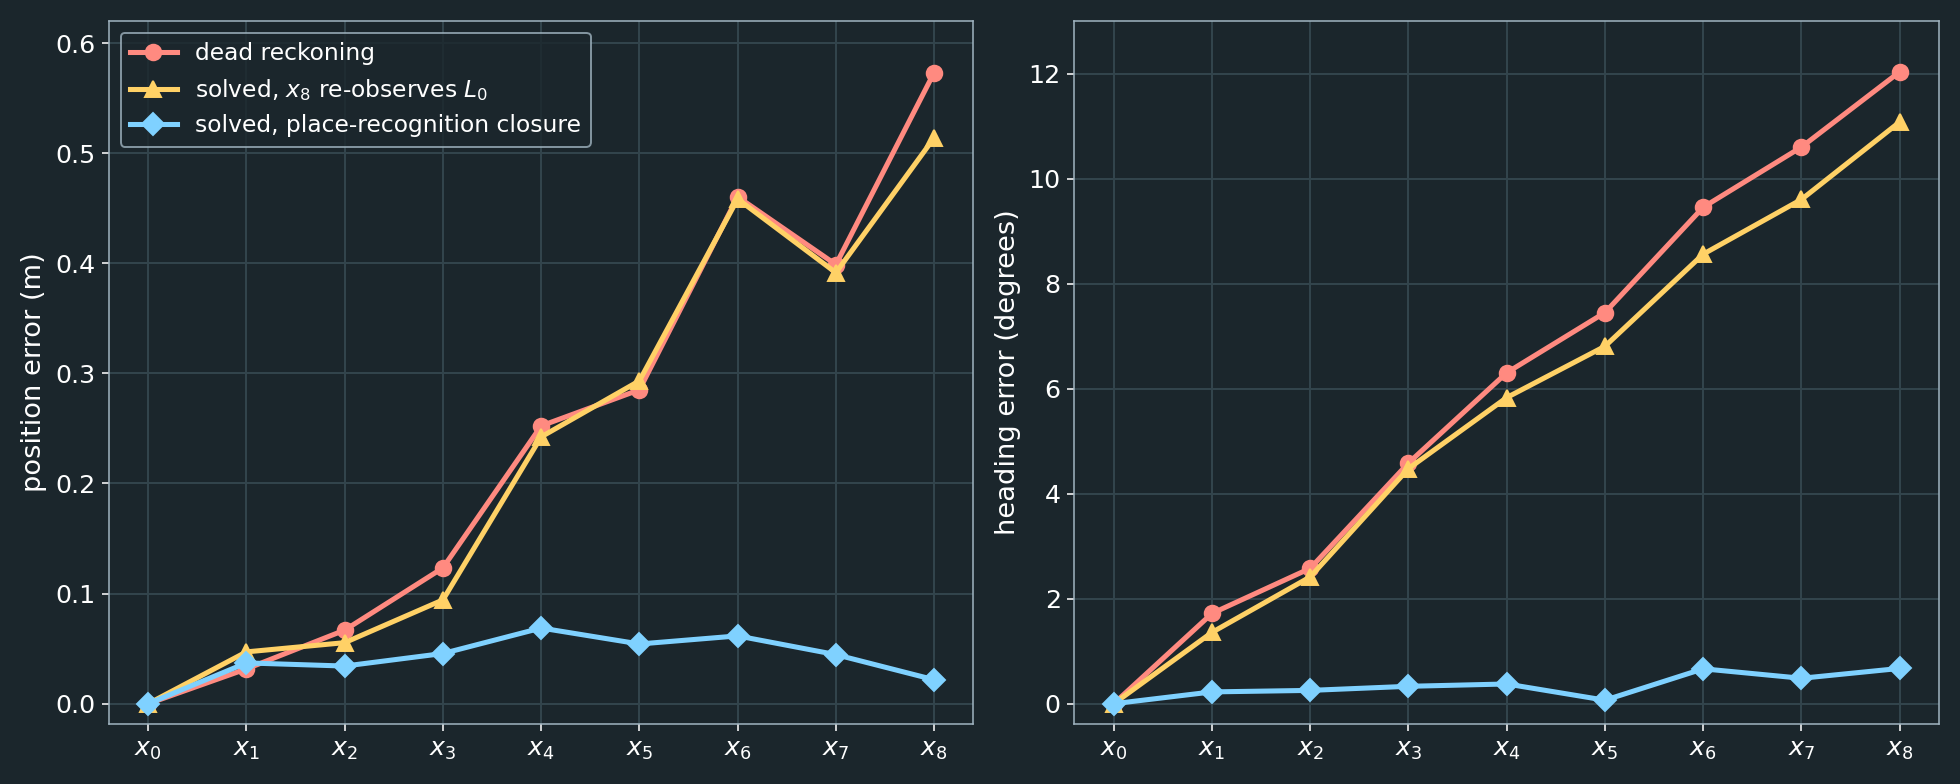
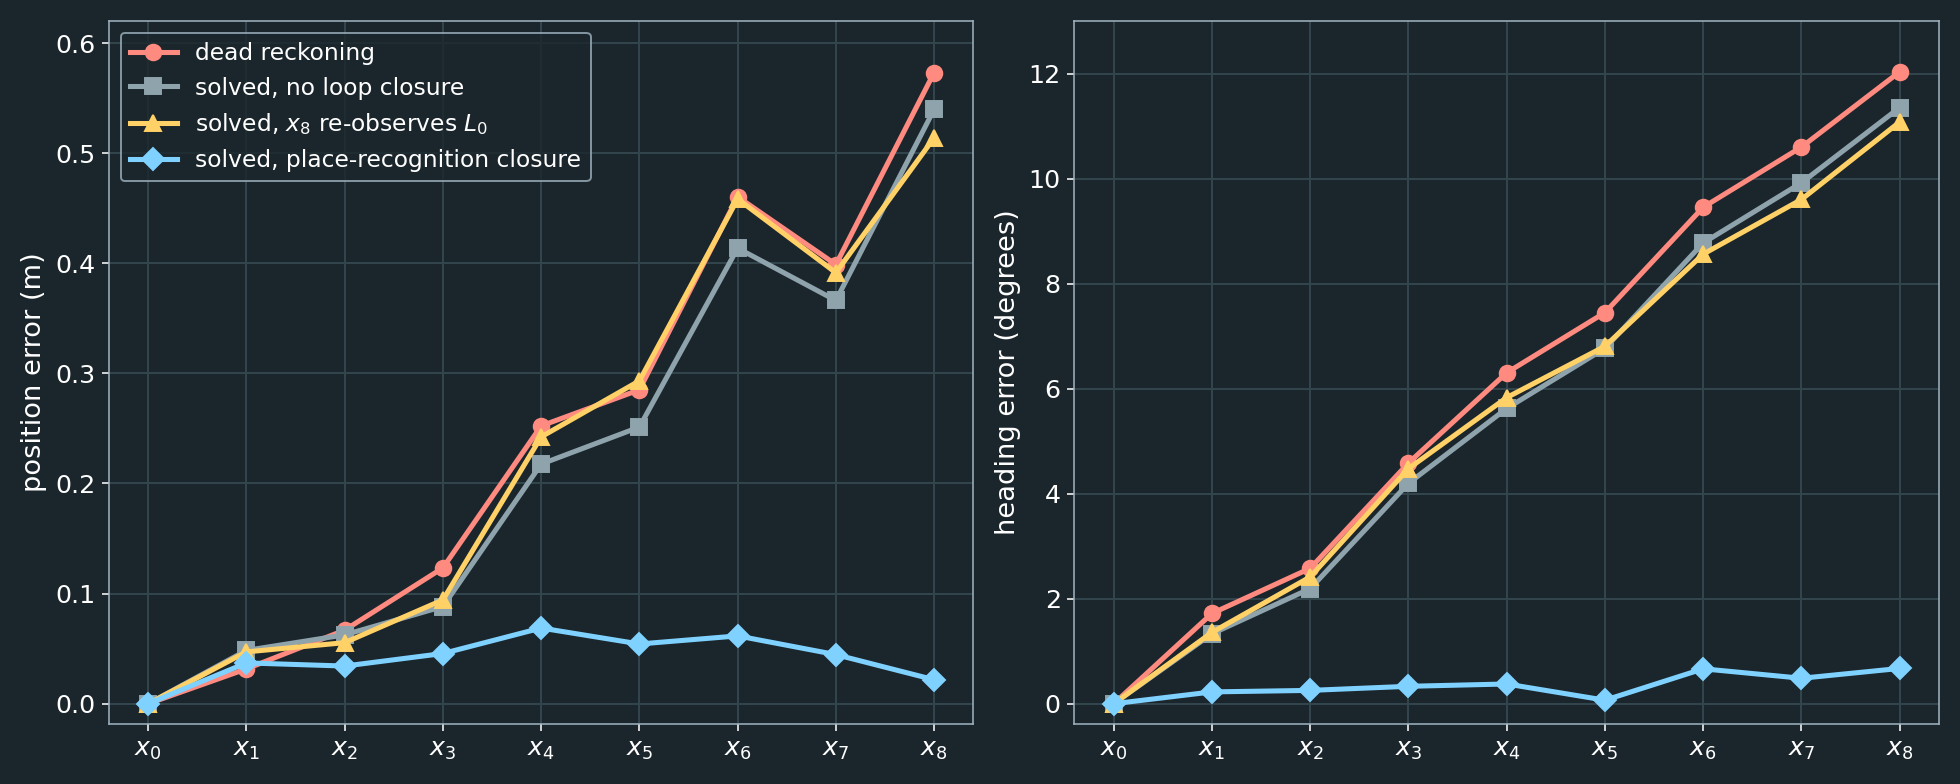
Update error charts in loop closure documentation for clarity and accuracy

diff --git a/Graph_SLAM/generate_loop_and_sparse_figures.py b/Graph_SLAM/generate_loop_and_sparse_figures.py
@@ -519,7 +519,7 @@ def main():
     solved_landmark = M.solve(mu0, M.WITH_LANDMARK_CLOSURE)[-1]
     make_error_chart([("dead reckoning", CONFLICT, mu0, "o"), ("solved, no loop closure", TRUTH, solved_local, "s"),
                       ("solved, with loop closure", ODOM, solved_pose, "D")], "loop_error.png")
-    make_error_chart([("dead reckoning", CONFLICT, mu0, "o"),
+    make_error_chart([("dead reckoning", CONFLICT, mu0, "o"), ("solved, no loop closure", TRUTH, solved_local, "s"),
                       ("solved, $x_8$ re-observes $L_0$", OBS, solved_landmark, "^"),
                       ("solved, place-recognition closure", ODOM, solved_pose, "D")], "loop_error_landmark.png")
     make_system_figure(M.LOCAL, [0], mu0, "loop_system_local.png")

diff --git a/Graph_SLAM/graphslam_loop_closure.md b/Graph_SLAM/graphslam_loop_closure.md
@@ -201,11 +201,11 @@ This is also a loop closure, and it adds edges between $\mathbf x_8$ and a landm
 | Solved with the place-recognition closure | 0.02 |
 | Solved after re-observing $L_0$ | 0.51 |
 
-Here is the error at every pose, in the same format and on the same axes as the chart in Step 3. The place-recognition closure from before is repeated in blue for comparison:
+Here is the error at every pose, in the same format and on the same axes as the chart in Step 3. The gray "no loop closure" line and the blue place-recognition closure line are repeated from that chart for comparison:
 
-![Two charts of error against pose, using the same axes as the earlier chart. For dead reckoning and for the solution where x8 re-observes L0, position and heading error both grow steadily along the path, and the two curves are close together, with the landmark closure only slightly lower. With the place-recognition closure, both errors stay small at every pose.](images/loop_error_landmark.png)
+![Two charts of error against pose, using the same axes as the earlier chart. Dead reckoning, the solution with no loop closure, and the solution where x8 re-observes L0 all grow steadily along the path and lie close together. With the place-recognition closure, both position and heading error stay small at every pose.](images/loop_error_landmark.png)
 
-The landmark closure only trims the error slightly, and the improvement is visible at every pose: the heading error at $\mathbf x_8$ falls from $12.0^\circ$ to $11.1^\circ$, compared with $0.7^\circ$ for the place-recognition closure. The correction is still spread along the trajectory, as it was before. There is simply very little correction to spread.
+The landmark closure (yellow) stays with the gray line and the red dead-reckoning line: at $\mathbf x_8$ the position error is $0.51\text{ m}$ against $0.54\text{ m}$ with no closure, and the heading error is $11.1^\circ$ against $11.4^\circ$. The place-recognition closure reaches $0.02\text{ m}$ and $0.7^\circ$. The landmark closure is only slightly better than having no closure at all, so there is very little correction to spread along the trajectory.
 
 The reason is that one landmark observation is only **two** equations, while a pose has **three** unknowns $(x,\ y,\ \theta)$. It cannot pin down the pose by itself. Any pose on the circle around the landmark, with a matching heading, sees the landmark in the same place in its own frame:
 
